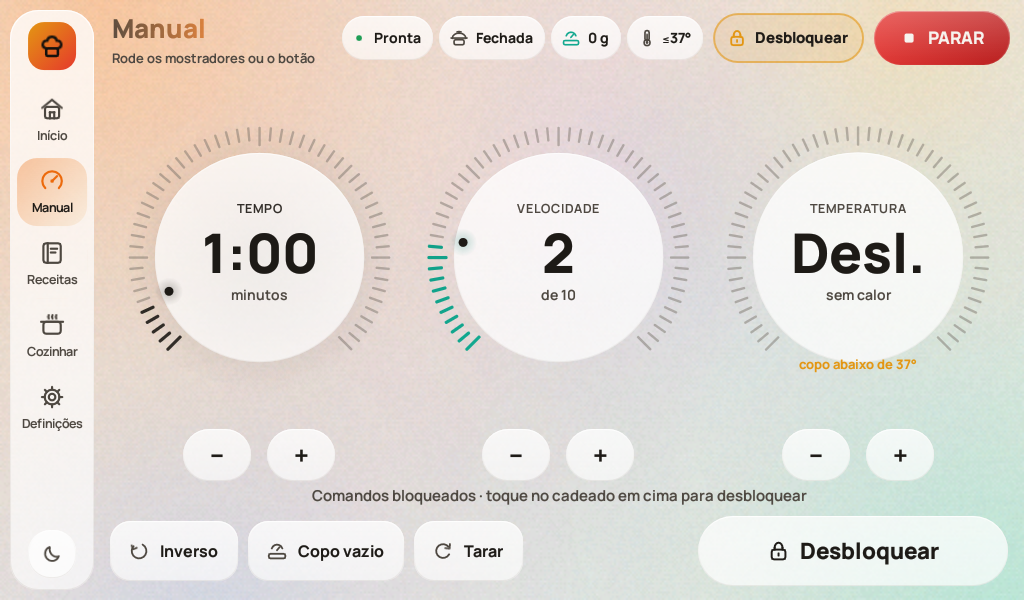
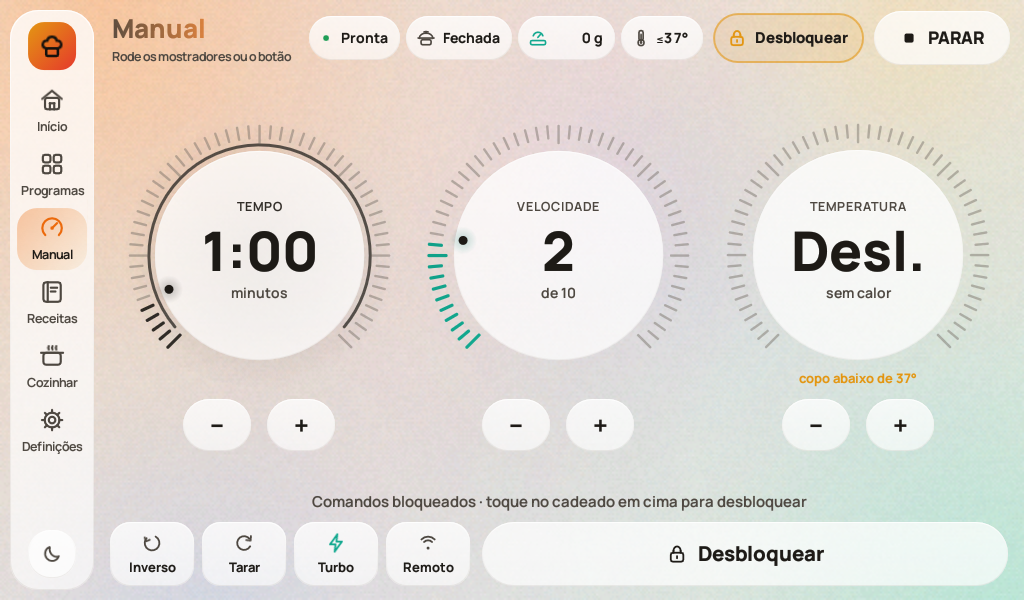
README: new screenshots (Home, Manual, Programs; day and night)
The Settings screenshot is gone (it showed server addresses); the recipe photo on Home is blurred.

diff --git a/README.md b/README.md
@@ -17,8 +17,11 @@ without the stock cooking app.
 
 | Day | Night |
 |---|---|
+| ![Home, day](docs/screenshots/home-day.png) | ![Home, night](docs/screenshots/home-night.png) |
 | ![Manual control, day](docs/screenshots/manual-day.png) | ![Manual control, night](docs/screenshots/manual-night.png) |
-| ![Cook screen](docs/screenshots/cook-empty-night.png) | ![Settings](docs/screenshots/settings-night.png) |
+| ![Automatic programs, day](docs/screenshots/programs-day.png) | ![Automatic programs, night](docs/screenshots/programs-night.png) |
+
+<sub>Screenshots from the machine, in Portuguese. The recipe photo on Home is blurred: it comes from a private recipe collection.</sub>
 
 > [!WARNING]
 > This software switches a 1000 W heater and a blade motor. It has **hard safety limits** (below), but it is a
